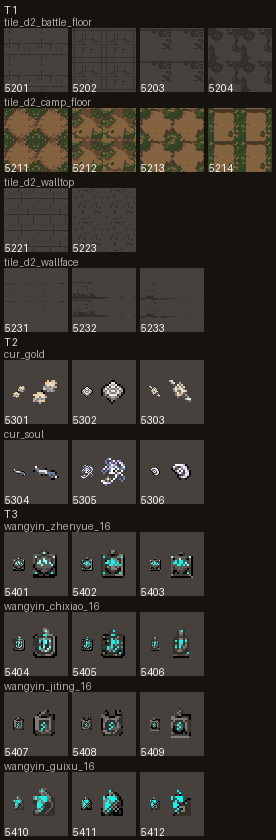
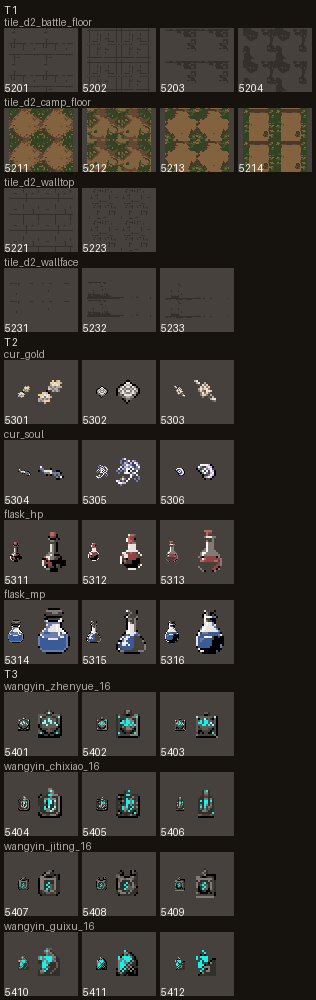
M2-36 D2 藥水 6 張補跑：48×48 產圖、最近鄰縮成 24
flask_hp 5311–5313、flask_mp 5314–5316 改 48 送出（pixflux 畫布至少 32×32），實花 6 次、6 張成功；縮 2 倍成 24 後預篩 ✅ 5／❌ 1（flask_mp s5314 外圈未留 1 px 透明）。
pixellab_d2_first.py 加 flask48、shrink，報表藥水用 24 量、列 48／24 檔名；拼圖格寬依圖放寬。牆頂、牆面（含 5222）未跑。

Claude-Session: https://claude.ai/code/session_01LdUmBJcbfiETtEZWNyf7Mc

diff --git a/tools/pixellab_d2_first.py b/tools/pixellab_d2_first.py
@@ -4,6 +4,8 @@
     python3 tools/pixellab_d2_first.py sheet     # 寫 art/_tmp/m2-36-d2-first/jobs.json（給 pixellab_batch.py --sheet）
     python3 tools/pixellab_d2_first.py repost    # 只用原圖重做後處理（不花生成）
     python3 tools/pixellab_d2_first.py report    # 量 §6／各表能自動量的項目 → results.md、拼圖總覽
+    python3 tools/pixellab_d2_first.py flask48   # 藥水補跑：寫 jobs-flask48.json（48×48；pixflux 畫布至少 32×32，24 會 422）
+    python3 tools/pixellab_d2_first.py shrink    # 補跑後：48 原圖改名 -48，最近鄰縮 2 倍成 -24（再 alpha_binary）
 生成：python3 tools/pixellab_batch.py run --sheet art/_tmp/m2-36-d2-first/jobs.json --raw art/_tmp/m2-36-d2-first --all [--go]
 """
 import json, pathlib, sys
@@ -83,6 +85,25 @@ def sheet():
     OUT.mkdir(parents=True, exist_ok=True)
     (OUT / 'jobs.json').write_text(json.dumps(js, ensure_ascii=False, indent=2), encoding='utf-8')
     print('寫好', (OUT / 'jobs.json').relative_to(pb.ROOT), len(js), '個 id，', sum(j['n'] for j in js), '張')
+
+
+def flask48():
+    js = [dict(j, body=dict(j['body'], image_size={'width': 48, 'height': 48})) for j in json.loads((OUT / 'jobs.json').read_text(encoding='utf-8'))
+          if j['id'].startswith('flask')]
+    (OUT / 'jobs-flask48.json').write_text(json.dumps(js, ensure_ascii=False, indent=2), encoding='utf-8')
+    print('寫好 jobs-flask48.json', [j['id'] for j in js])
+
+
+def shrink():
+    for j in json.loads((OUT / 'jobs-flask48.json').read_text(encoding='utf-8')):
+        d = OUT / j['id']
+        for f in sorted(d.glob(f"{j['id']}-s????.png")):
+            for x in (f, f.with_suffix('.json'), d / 'post' / f.name):
+                x.rename(x.with_name(f'{f.stem}-48{x.suffix}'))
+            im = Image.open(d / f'{f.stem}-48.png')
+            im.resize((im.width // 2, im.height // 2), Image.NEAREST).save(d / f'{f.stem}-24.png')
+            pb.post(j, d, f'{f.stem}-24')
+            print('縮好', f.stem, '48 → 24')
 
 
 # ---- 量測 ----
@@ -240,10 +261,11 @@ def measure_icon(j, raw, post):
 
 def contact(groups, scale):
     """依表分組的總覽：每列一個 id、每格一張（地磚 2×2 拼）"""
-    cell, pad, lab_h = 64, 4, 12
+    pad, lab_h = 4, 12
     rows = [(t, jid, ims) for t, items in groups for jid, ims in items]
+    cell = max([64] + [im.width for _, _, ims in rows for _, im in ims])
     W = pad + 4 * (cell + pad)
-    H = sum(cell + pad + lab_h for _ in rows) + pad + 3 * lab_h
+    H = sum(64 + pad + lab_h for _ in rows) + pad + 3 * lab_h
     bg = Image.new('RGBA', (W, H), (0x16, 0x13, 0x0f, 255))
     dr = ImageDraw.Draw(bg)
     y, last = pad, None
@@ -256,10 +278,10 @@ def contact(groups, scale):
         y += lab_h
         for k, (seed, im) in enumerate(ims):
             x = pad + k * (cell + pad)
-            dr.rectangle([x, y, x + cell - 1, y + cell - 1], fill=(0x46, 0x41, 0x3c, 255))
-            bg.alpha_composite(im, (x + (cell - im.width) // 2, y + (cell - im.height) // 2))
-            dr.text((x + 1, y + cell - 10), str(seed), fill=(251, 249, 246, 255))
-        y += cell + pad
+            dr.rectangle([x, y, x + cell - 1, y + 63], fill=(0x46, 0x41, 0x3c, 255))
+            bg.alpha_composite(im, (x + (cell - im.width) // 2, y + (64 - im.height) // 2))
+            dr.text((x + 1, y + 54), str(seed), fill=(251, 249, 246, 255))
+        y += 64 + pad
     return bg.resize((W * scale, H * scale), Image.NEAREST) if scale > 1 else bg
 
 
@@ -306,12 +328,18 @@ def report():
         for k in range(j['n']):
             seed = j['seed0'] + k
             stem = f"{j['id']}-s{seed}"
+            if j['id'].startswith('flask'):  # 補跑：48 產圖、縮成 24 量
+                stem += '-24'
             f = d / f'{stem}.png'
             if not f.exists():
                 n_fail += 1
                 rows.append((j['table'], j['id'], seed, '失敗', fmap.get((j['id'], seed), '沒有圖（未送出或失敗）'), '—', '—'))
                 continue
             n_ok += 1
+            if j['id'].startswith('flask'):
+                note = f"48 `{stem[:-3]}-48.png`、24 `{stem}.png`（48 補跑，最近鄰縮 2 倍）；"
+            else:
+                note = ''
             raw = Image.open(f)
             posts = [Image.open(d / 'post' / n) for n in pb.post_names(stem, j['post'])]
             m, ok = (measure_tile(j, raw, posts) if j['id'].startswith('tile') else measure_icon(j, raw, posts[0]))
@@ -324,7 +352,7 @@ def report():
                 eye = '有塞有液、非空瓶、HP／MP 同家族、無數字環'
             elif j['id'].startswith('cur'):
                 eye = '1× 可辨、灰階金≠靈魂'
-            rows.append((j['table'], j['id'], seed, '成功', '；'.join(f'{a} {b}' for a, b in m.items()), '✅' if ok else '❌', f'待美術看：{eye}'))
+            rows.append((j['table'], j['id'], seed, '成功', note + '；'.join(f'{a} {b}' for a, b in m.items()), '✅' if ok else '❌', f'待美術看：{eye}'))
             groups.setdefault(j['table'], []).append((j['id'], seed, preview(j, posts)))
     by = {}
     for t, items in groups.items():
@@ -336,7 +364,7 @@ def report():
     if g:
         contact(g, 1).save(OUT / 'contact-1x.png')
         contact(g, 4).save(OUT / 'contact-4x.png')
-    head = ['# M2-36 D2 首跑 38 張：自動預篩',
+    head = ['# M2-36 D2 首跑 38 張（藥水 6 張 48 補跑、縮成 24）：自動預篩',
             '',
             f'成功 {n_ok} 張、失敗 {n_fail} 張；自動預篩 ✅ {n_pass}／❌ {n_ok - n_pass}。目視項目一律「待美術看」。量測用後處理圖（`post/`），色票偏移與放大圖用原圖。',
             '',
@@ -355,4 +383,4 @@ def report():
 
 
 if __name__ == '__main__':
-    {'sheet': sheet, 'repost': repost, 'report': report}[sys.argv[1]]()
+    {'sheet': sheet, 'repost': repost, 'report': report, 'flask48': flask48, 'shrink': shrink}[sys.argv[1]]()

diff --git a/art/_tmp/m2-36-d2-first/results.md b/art/_tmp/m2-36-d2-first/results.md
@@ -1,6 +1,6 @@
-# M2-36 D2 首跑 38 張：自動預篩
+# M2-36 D2 首跑 38 張（藥水 6 張 48 補跑、縮成 24）：自動預篩
 
-成功 31 張、失敗 7 張；自動預篩 ✅ 18／❌ 13。目視項目一律「待美術看」。量測用後處理圖（`post/`），色票偏移與放大圖用原圖。
+成功 37 張、失敗 1 張；自動預篩 ✅ 23／❌ 14。目視項目一律「待美術看」。量測用後處理圖（`post/`），色票偏移與放大圖用原圖。
 
 量法與過關（規格 §6、表 1–3）：
 - 共用：原圖色票偏移（ΔE>3 比例、最大值，只回報）；放大圖＝最近鄰縮半再放大後與原圖相同（不准）；禁色 `#faaa5e` `#7c5729` `#fa8915`（ΔE≤2 視為同色，0 像素）。
@@ -31,12 +31,12 @@
 | 2 | `cur_soul` | 5304 | 成功 | 原圖 ΔE>3 0%；原圖最大 ΔE 0.0；放大圖 否；原圖半透明 0；不透明 19%；禁色 0；棋盤 1；C*>40 0% | ✅ | 待美術看：1× 可辨、灰階金≠靈魂 |
 | 2 | `cur_soul` | 5305 | 成功 | 原圖 ΔE>3 0%；原圖最大 ΔE 0.0；放大圖 否；原圖半透明 0；不透明 54%；禁色 0；棋盤 12；C*>40 0% | ❌ | 待美術看：1× 可辨、灰階金≠靈魂 |
 | 2 | `cur_soul` | 5306 | 成功 | 原圖 ΔE>3 0%；原圖最大 ΔE 0.0；放大圖 否；原圖半透明 0；不透明 25%；禁色 0；棋盤 4；C*>40 0% | ✅ | 待美術看：1× 可辨、灰階金≠靈魂 |
-| 2 | `flask_hp` | 5311 | 失敗 | API 錯誤 422：{"detail":"Canvas must be size 32x32 area or larger"} | — | — |
-| 2 | `flask_hp` | 5312 | 失敗 | API 錯誤 422：{"detail":"Canvas must be size 32x32 area or larger"} | — | — |
-| 2 | `flask_hp` | 5313 | 失敗 | API 錯誤 422：{"detail":"Canvas must be size 32x32 area or larger"} | — | — |
-| 2 | `flask_mp` | 5314 | 失敗 | API 錯誤 422：{"detail":"Canvas must be size 32x32 area or larger"} | — | — |
-| 2 | `flask_mp` | 5315 | 失敗 | API 錯誤 422：{"detail":"Canvas must be size 32x32 area or larger"} | — | — |
-| 2 | `flask_mp` | 5316 | 失敗 | API 錯誤 422：{"detail":"Canvas must be size 32x32 area or larger"} | — | — |
+| 2 | `flask_hp` | 5311 | 成功 | 48 `flask_hp-s5311-48.png`、24 `flask_hp-s5311-24.png`（48 補跑，最近鄰縮 2 倍）；原圖 ΔE>3 0%；原圖最大 ΔE 0.0；放大圖 否；原圖半透明 0；不透明 24%；禁色 0；棋盤 5；C*>40 0%；外圈透明 是 | ✅ | 待美術看：有塞有液、非空瓶、HP／MP 同家族、無數字環 |
+| 2 | `flask_hp` | 5312 | 成功 | 48 `flask_hp-s5312-48.png`、24 `flask_hp-s5312-24.png`（48 補跑，最近鄰縮 2 倍）；原圖 ΔE>3 0%；原圖最大 ΔE 0.0；放大圖 否；原圖半透明 0；不透明 26%；禁色 0；棋盤 3；C*>40 0%；外圈透明 是 | ✅ | 待美術看：有塞有液、非空瓶、HP／MP 同家族、無數字環 |
+| 2 | `flask_hp` | 5313 | 成功 | 48 `flask_hp-s5313-48.png`、24 `flask_hp-s5313-24.png`（48 補跑，最近鄰縮 2 倍）；原圖 ΔE>3 0%；原圖最大 ΔE 0.0；放大圖 否；原圖半透明 0；不透明 32%；禁色 0；棋盤 4；C*>40 0%；外圈透明 是 | ✅ | 待美術看：有塞有液、非空瓶、HP／MP 同家族、無數字環 |
+| 2 | `flask_mp` | 5314 | 成功 | 48 `flask_mp-s5314-48.png`、24 `flask_mp-s5314-24.png`（48 補跑，最近鄰縮 2 倍）；原圖 ΔE>3 0%；原圖最大 ΔE 0.0；放大圖 否；原圖半透明 0；不透明 46%；禁色 0；棋盤 1；C*>40 0%；外圈透明 否 | ❌ | 待美術看：有塞有液、非空瓶、HP／MP 同家族、無數字環 |
+| 2 | `flask_mp` | 5315 | 成功 | 48 `flask_mp-s5315-48.png`、24 `flask_mp-s5315-24.png`（48 補跑，最近鄰縮 2 倍）；原圖 ΔE>3 0%；原圖最大 ΔE 0.0；放大圖 否；原圖半透明 0；不透明 33%；禁色 0；棋盤 3；C*>40 0%；外圈透明 是 | ✅ | 待美術看：有塞有液、非空瓶、HP／MP 同家族、無數字環 |
+| 2 | `flask_mp` | 5316 | 成功 | 48 `flask_mp-s5316-48.png`、24 `flask_mp-s5316-24.png`（48 補跑，最近鄰縮 2 倍）；原圖 ΔE>3 0%；原圖最大 ΔE 0.0；放大圖 否；原圖半透明 0；不透明 38%；禁色 0；棋盤 3；C*>40 0%；外圈透明 是 | ✅ | 待美術看：有塞有液、非空瓶、HP／MP 同家族、無數字環 |
 | 3 | `wangyin_zhenyue_16` | 5401 | 成功 | 原圖 ΔE>3 0%；原圖最大 ΔE 0.0；放大圖 否；原圖半透明 0；不透明 59%；禁色 0；棋盤 14；C*>40 1% | ❌ | 待美術看：正面家族、無臉無立體、四枚灰階可分 |
 | 3 | `wangyin_zhenyue_16` | 5402 | 成功 | 原圖 ΔE>3 0%；原圖最大 ΔE 0.0；放大圖 否；原圖半透明 0；不透明 59%；禁色 0；棋盤 6；C*>40 11% | ✅ | 待美術看：正面家族、無臉無立體、四枚灰階可分 |
 | 3 | `wangyin_zhenyue_16` | 5403 | 成功 | 原圖 ΔE>3 0%；原圖最大 ΔE 0.0；放大圖 否；原圖半透明 0；不透明 50%；禁色 0；棋盤 5；C*>40 9% | ✅ | 待美術看：正面家族、無臉無立體、四枚灰階可分 |
